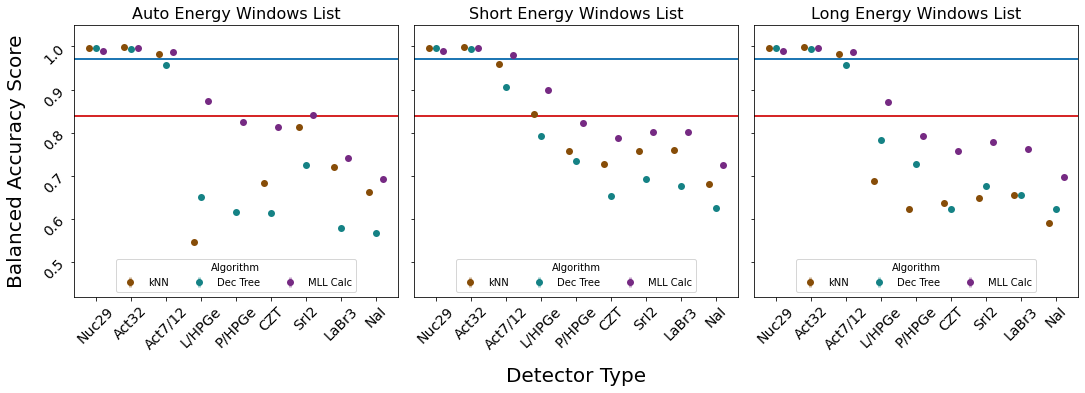
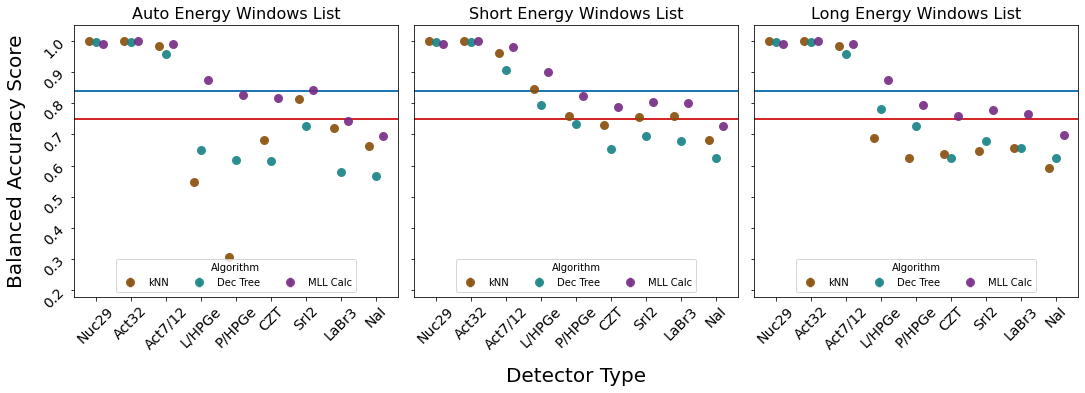
reactor discussion updates

diff --git a/document/chapters/exp2/eval_rxtr.tex b/document/chapters/exp2/eval_rxtr.tex
@@ -1,18 +1,4 @@
 
-To judge the degradation of predictions of the algorithms with decreasing
-information quality (detailed in Section \ref{sec:inforeduc2}), a plot for each
-energy window list (auto, short, and long) is made.  Figure \ref{fig:rxtr}
-shows the balanced accuracy of reactor type classification for the previously
-described \textit{x}-axis, where a score of $1$ is perfect prediction and a
-score of $0$ is random classification. The error bars reflect a 99\% confidence
-interval. The red line that indicates a baseline/minimum acceptable performance
-is at a balanced accuracy score of 0.84, which is based on the lowest
-performance of all three algorithms at 20\% training set error for the 29
-nuclide mass training set in Figure \ref{fig:randerrA}. The blue line that
-indicates an ideal performance is at 0.97 balanced accuracy, which is based on
-the approximate performance of all three algorithms at 5\% training set error
-for the 29 nuclide mass training set. 
-
 \begin{figure}[!htb]
   \centering
   \includegraphics[width=\textwidth]{./chapters/exp2/detector_preds_wrt_enlist_BalAcc_rxtr.png}
@@ -22,7 +8,40 @@ for the 29 nuclide mass training set.
   \label{fig:rxtr}
 \end{figure}
 
-\begin{figure}[!htb]
+To judge the degradation of predictions of the algorithms with decreasing
+information quality (detailed in Section \ref{sec:inforeduc2}), a plot for each
+energy window list (auto, short, and long) is presented.  Figure \ref{fig:rxtr}
+shows the balanced accuracy of reactor type classification for the previously
+described \textit{x}-axis, where a score of $1$ is perfect prediction and a
+score of $0$ is random classification. The error bars (which are not visible
+past the marker size on the plots) reflect a 99\% confidence interval.  The
+blue line that indicates an ideal performance is at 0.84 balanced accuracy,
+which is based on the lowest performance of all three algorithms at 20\%
+training set error for the 29 nuclide mass training set in Figure
+\ref{fig:randerrA}.  The red line that indicates a baseline/minimum acceptable
+performance is at a balanced accuracy score of 0.75, which is an arbitrary
+choice. 
+
+For the auto and short energy windows lists, the \textit{k}-nearest neighbors
+performance is usually below \gls{MLL} calculations and above decision trees,
+which is not expected. In Figure \ref{fig:randerrA}, the \textit{k}-nearest
+neighbors line emerges with the lowest performance with decreasing information,
+and it is interesting that this pattern did not emerge with the detectors'
+performances. For the lab-based and portable \gls{HPGe}s, \textit{k}-nearest
+neighbors has the worst performance for the auto and long lists, and
+drastically so for the auto list cases. There are a few instances of
+\textit{k}-nearest neighbors being above the red line: portable \gls{HPGe} for
+the short list, \gls{SrI2} for the auto and short lists, and \gls{LaBr3} for
+the short list. Also, the lab-based \gls{HPGe} exceeds the blue line.
+
+For the short and long energy windows lists, decision trees only performs above
+the red line for the lab-based \gls{HPGe} detector, and the remaining detectors
+have a decision trees performance below the baseline; there is no detector for
+which decision trees performs above the baseline on the auto list plot.
+Decision trees almost consistently performs the worse for the last four
+detectors.
+
+\begin{figure}[H]
   \centering
   \includegraphics[width=\textwidth]{./chapters/exp2/confusion_matrix_nucs_acts.png}
   \caption{Confusion matrices of reactor type prediction for each algorithm 
@@ -32,24 +51,73 @@ for the 29 nuclide mass training set.
   \label{fig:cm_nucs_acts}
 \end{figure}
 
-\begin{figure}[!htb]
+\begin{figure}[H]
   \centering
   \includegraphics[width=0.83\textwidth]{./chapters/exp2/confusion_matrix_6dets_auto.png}
   \caption{Confusion matrices for auto energy window list training sets.}
   \label{fig:cm_auto}
 \end{figure}
 
-\begin{figure}[!htb]
+\begin{figure}[H]
   \centering
   \includegraphics[width=0.83\textwidth]{./chapters/exp2/confusion_matrix_6dets_short.png}
   \caption{Confusion matrices for short energy window list training sets.}
   \label{fig:cm_short}
 \end{figure}
 
-\begin{figure}[!htb]
+\begin{figure}[H]
   \centering
   \includegraphics[width=0.83\textwidth]{./chapters/exp2/confusion_matrix_6dets_long.png}
   \caption{Confusion matrices for long energy window list training sets.}
   \label{fig:cm_long}
 \end{figure}
 
+For the short and long energy windows lists, \gls{MLL} is above the baseline
+except for the \gls{NaI} detector.  For the auto list, only the last two
+detectors (\gls{LaBr3} and \gls{NaI}) are below the red line.  The majority of
+the data points for \gls{MLL} do not exceed the blue line, except for the
+following cases: lab-based \gls{HPGe} for all three lists, and \gls{SrI2} for
+the auto energy windows list.
+
+Only the first three \textit{x}-axis categories exceed the blue line for all
+three algorithms, which is expected for the various levels of full-knowledge
+represented. The short energy windows list has the most data points above the
+red line, and so can be declared to perform the best among the three lists for
+reactor type prediction.  The slightly worse outcomes for the long energy
+windows list are to be expected from the algorithms having to deal with a lot
+of non-useable features, \todo{add this warning to i-reduc} especially for the
+last four detectors.  The variable behavior of the auto energy windows list
+would require further study, but the fact that the \gls{SrI2} detector
+ouperforms all of the solid state detectors speaks to how an automatic peak
+search should not be discarded as a method. This set of points outperforms even
+the portable \gls{HPGe} on the short energy windows list.
+
+As in Section \ref{sec:randerr}, the reactor type classification performance
+discussion would not be complete without the added detail that confusion
+matrices supply. First, the four "full knowledge" training sets are presented
+in Figure \ref{fig:cm_nucs_acts}.  The 29 nuclide mass training set (top panel)
+is repeated from the 1\% training set error case in Figure \ref{fig:cm_nuc29}.
+For the 32 nuclide activity training set (second panel), the numbers are
+approximately the same, but interestingly, they improve slightly for
+\textit{k}-nearest neighbors and \gls{MLL} calculations.  A visible increase in
+misclassification is clear with the 12 and 7 nuclide activity training sets,
+especially for decision trees. \todo[inline]{discuss numbers or no?}
+
+\todo[inline]{I think most of the discussion will focus on PWR/PHWR being
+misclassified as BWR, since that is the main two sources of misclassification.
+The other squares stay pretty purple.}
+
+Figure \ref{fig:cm_auto} shows the confusion matrices for all six detectors (in
+the same order top-to-bottom as the \textit{x}-axis in Figure \ref{fig:rxtr})
+for the auto energy windows list training sets. The \textit{k}-nearest
+neighbors performances for the two \gls{HPGe}s were notably poor in the plot,
+and the confusion matrices for these two cases explains why: not only are
+40.8\% and 62.1\% of \gls{PHWR}s being misclassified as \gls{BWR}s for the
+lab-based and portable \gls{HPGe}s, respectively, 31.2\% and 42.9\% of the
+\gls{PWR}s are misclassified as \gls{BWR}s for the same two detectors,
+respectively. By contrast, the second-best performing \textit{k}-nearest
+neighbors-predicted detector case was the auto energy windows list for
+\gls{SrI2}. The confusion matrix (in the fourth panel) for that data point 
+shows 
+
+\todo[inline]{come back to this: discussion incomplete.}
